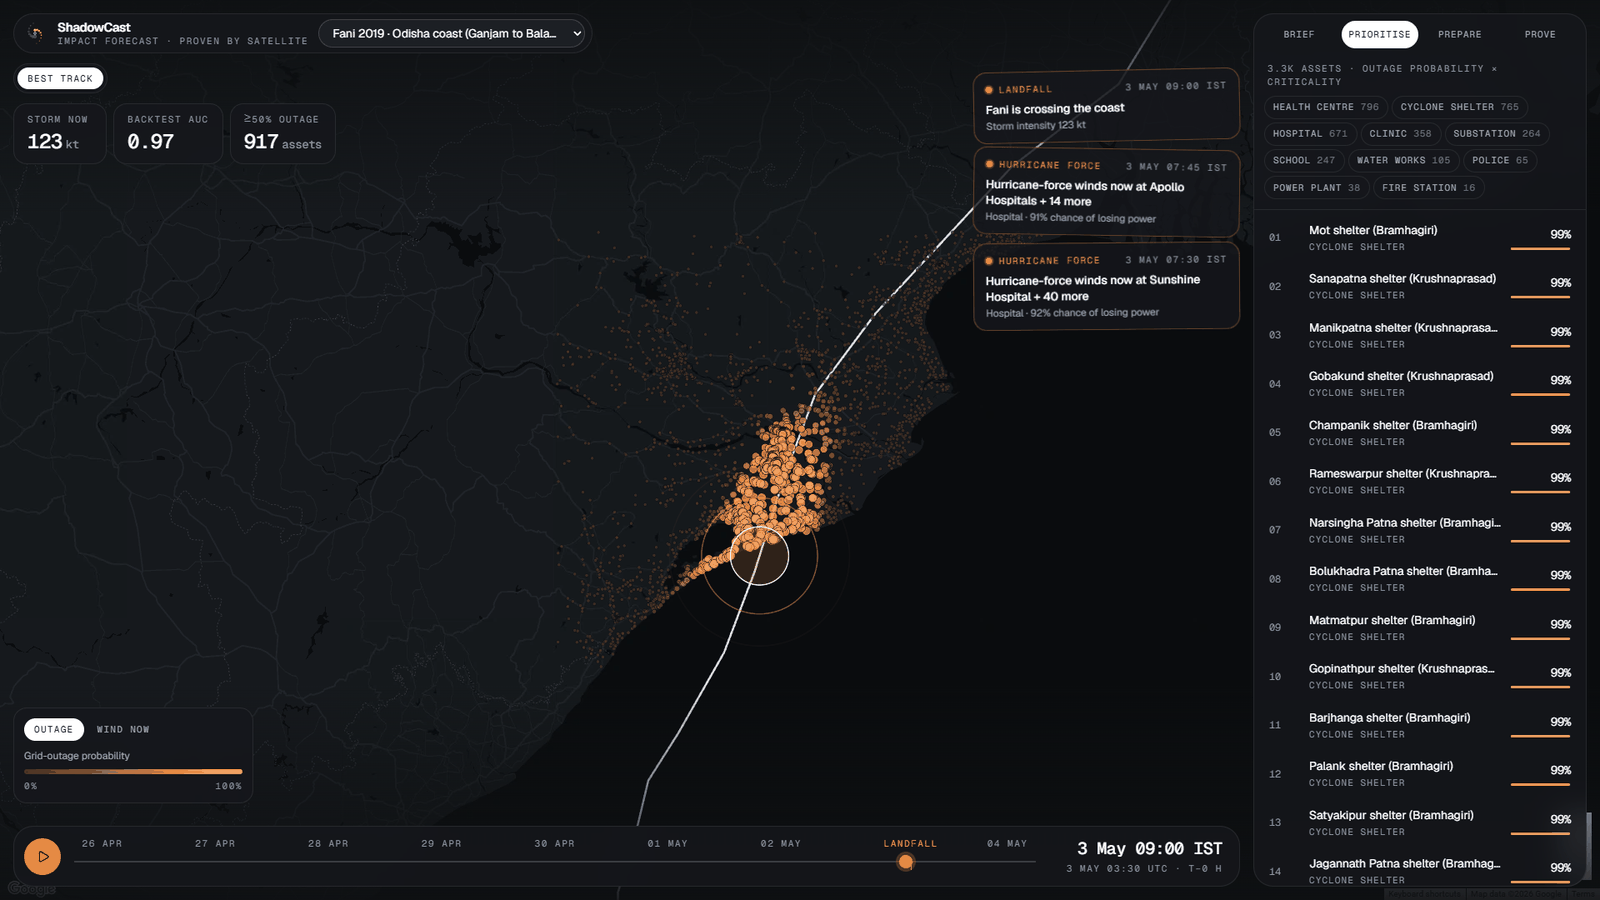
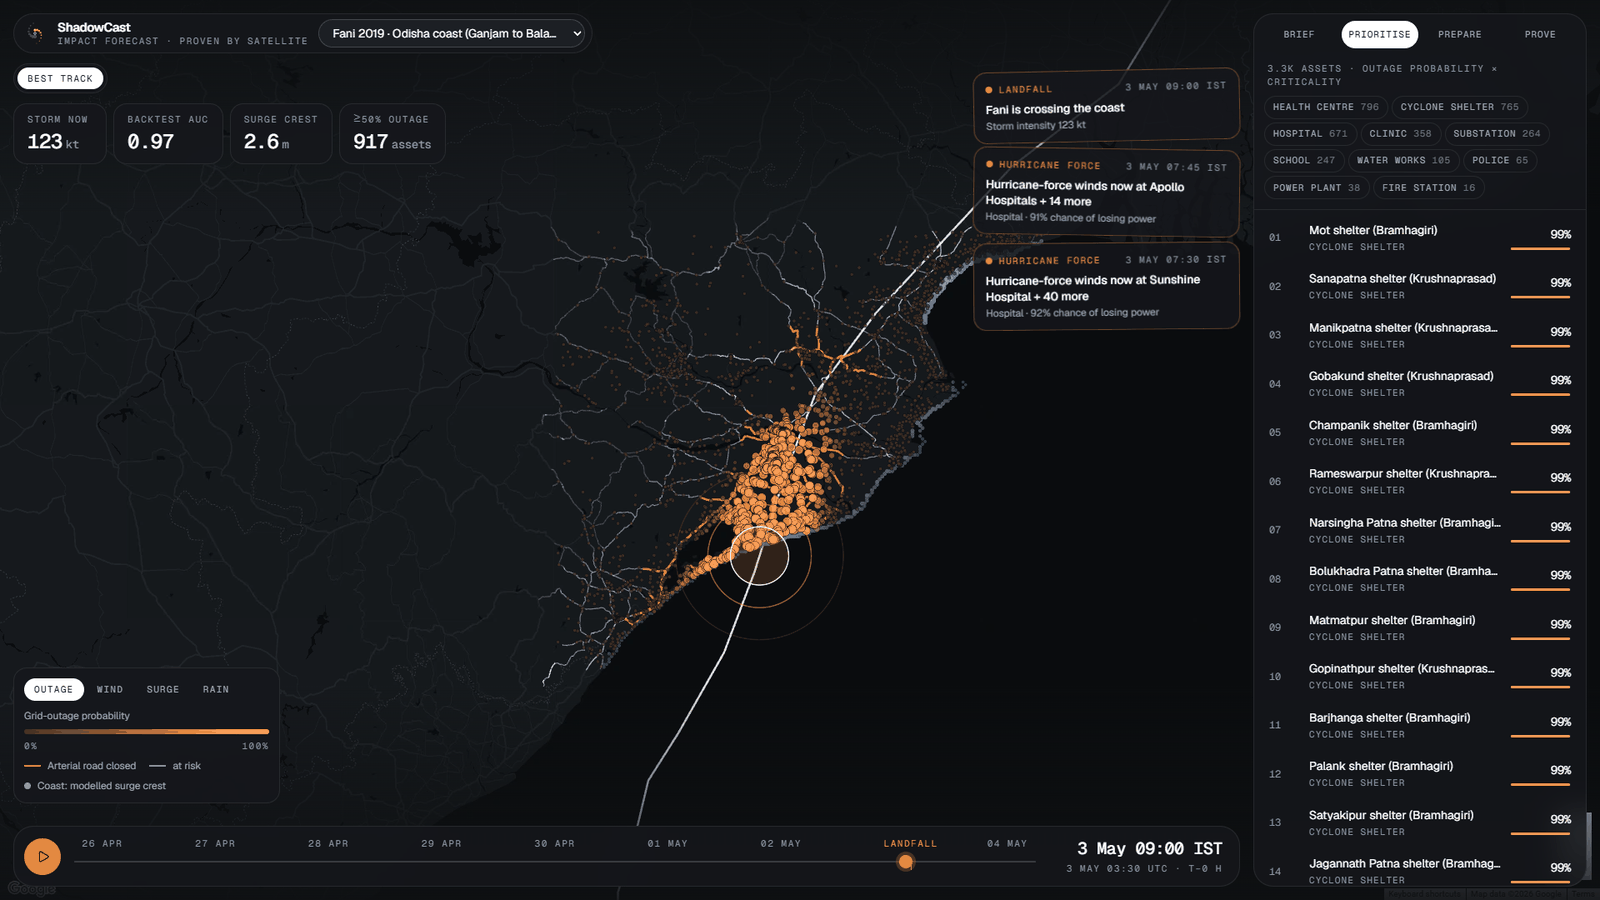
README: refresh gallery screenshots with roads, surge, satellite evidence, rain and surge checks

diff --git a/README.md b/README.md
@@ -61,20 +61,20 @@ The console opens on the **Brief** tab: a **live** card with the cyclones GDACS 
 
 <table>
   <tr>
-    <td width="50%"><img src="docs/images/fani-prioritise.png" alt="Prioritise tab at Fani landfall: cyclone shelters ranked by outage probability"></td>
+    <td width="50%"><img src="docs/images/fani-prioritise.png" alt="Prioritise tab at Fani landfall: cyclone shelters ranked by outage probability, arterial roads cut in amber, the modelled surge crest in blue along the coast"></td>
     <td width="50%"><img src="docs/images/dana-ensemble.png" alt="Cyclone Dana, ECMWF ensemble forecast issued 68 hours before landfall: member tracks and sites ranked by gale probability"></td>
   </tr>
   <tr>
-    <td align="center"><b>Prioritise</b> · Fani at landfall. Every site ranked, with outage probability, gale arrival, population served, elevation and reasons</td>
+    <td align="center"><b>Prioritise</b> · Fani at landfall. Every site ranked, with outage probability, gale arrival, surge, rain, access road and reasons; cut roads in amber</td>
     <td align="center"><b>As issued, T−68 h</b> · Dana 2024. 36 ECMWF members on the storm; 685 sites where at least half bring gales</td>
   </tr>
   <tr>
-    <td width="50%"><img src="docs/images/fani-prove.png" alt="Prove tab on Fani: ROC AUC 0.97, Brier 0.049, spatial holdout, light loss by wind band, predicted vs observed per substation"></td>
-    <td width="50%"><img src="docs/images/fani-replay.gif" alt="Animated replay of Cyclone Fani from 2 May 06:00 UTC to 3 May 06:00 UTC: alert cards fire as gales and hurricane-force winds reach named sites and the eye crosses the Odisha coast"></td>
+    <td width="50%"><img src="docs/images/fani-prove.png" alt="Prove tab on Fani: before and after VIIRS night-light images read by Gemini (Khordha, Puri and Cuttack totally dark, agrees with ShadowCast), storm rain vs NASA GPM rank correlation 0.72, and storm surge 2.3 m modelled vs 1.5 m reported by IMD"></td>
+    <td width="50%"><img src="docs/images/fani-replay.gif" alt="Animated replay of Cyclone Fani on the Brief tab from 2 May 06:00 UTC to 3 May 06:00 UTC: alert cards fire as gales and hurricane-force winds reach named sites, arterial roads turn amber as they close, and the eye crosses the Odisha coast"></td>
   </tr>
   <tr>
-    <td align="center"><b>Prove</b> · Fani backtest against VIIRS night lights: skill, spatial holdout, light loss by wind band, predicted vs observed per substation</td>
-    <td align="center"><b>Replay</b> · Fani, 2 May 06:00 → 3 May 06:00 UTC. Alerts fire as gales, then hurricane-force winds, reach named sites</td>
+    <td align="center"><b>Prove</b> · Fani. Gemini reads the before/after satellite images; rain is scored against NASA GPM and surge against IMD</td>
+    <td align="center"><b>Replay</b> · Fani, 2 May 06:00 → 3 May 06:00 UTC. Alerts fire as gales, then hurricane-force winds, reach named sites; roads turn amber as they close</td>
   </tr>
 </table>
 
